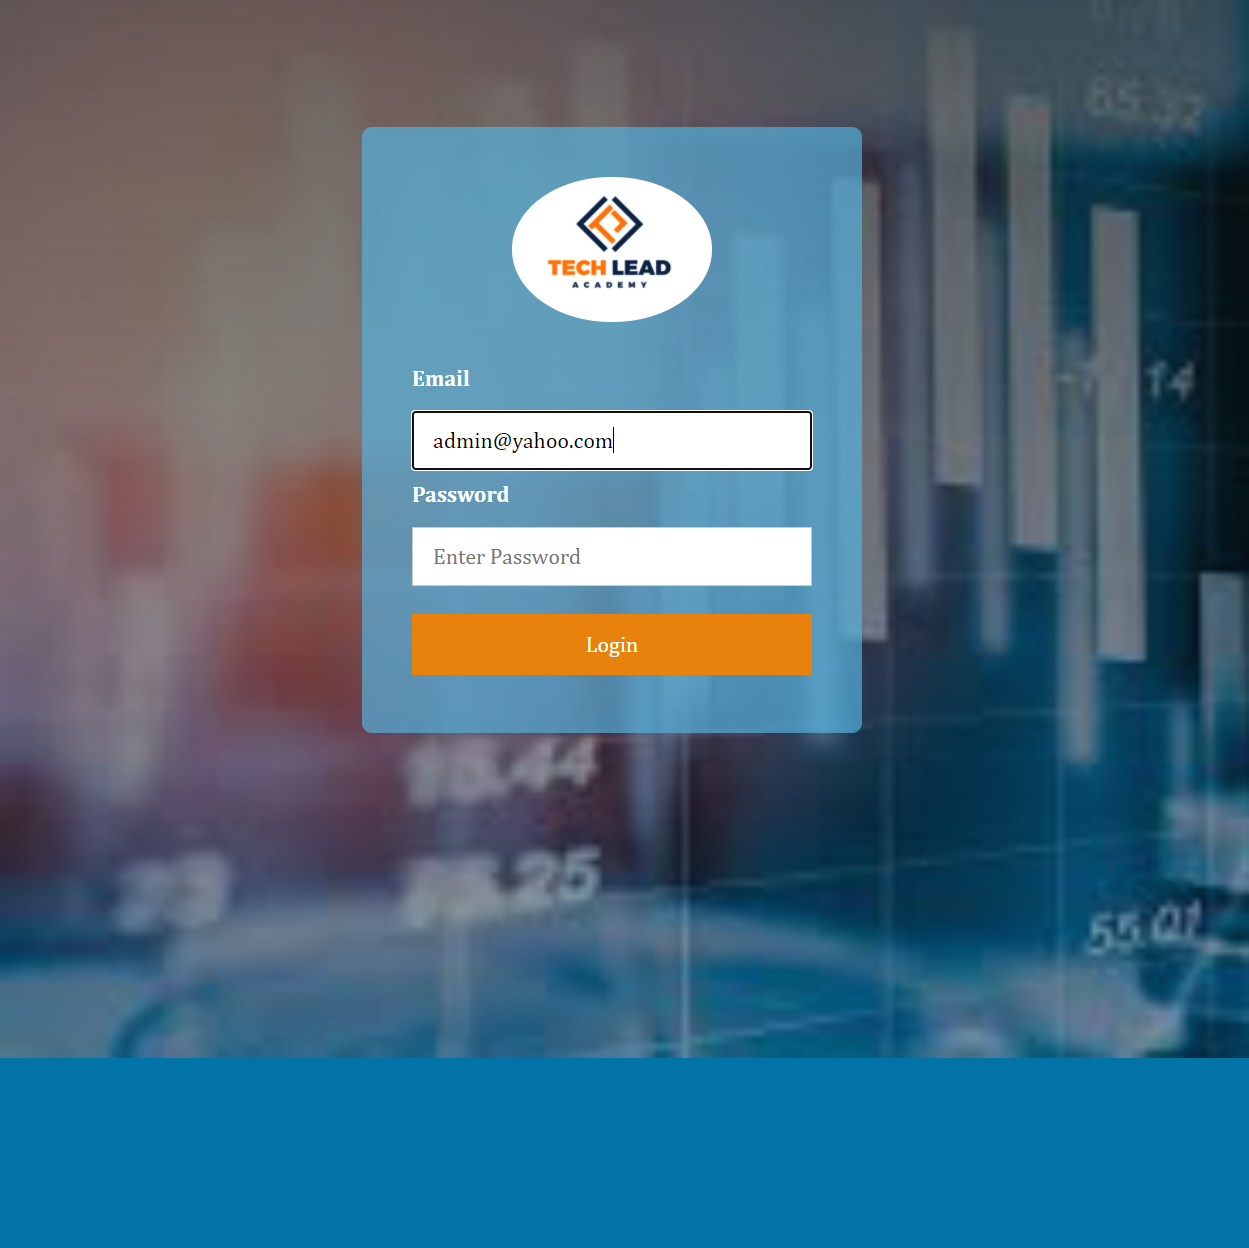
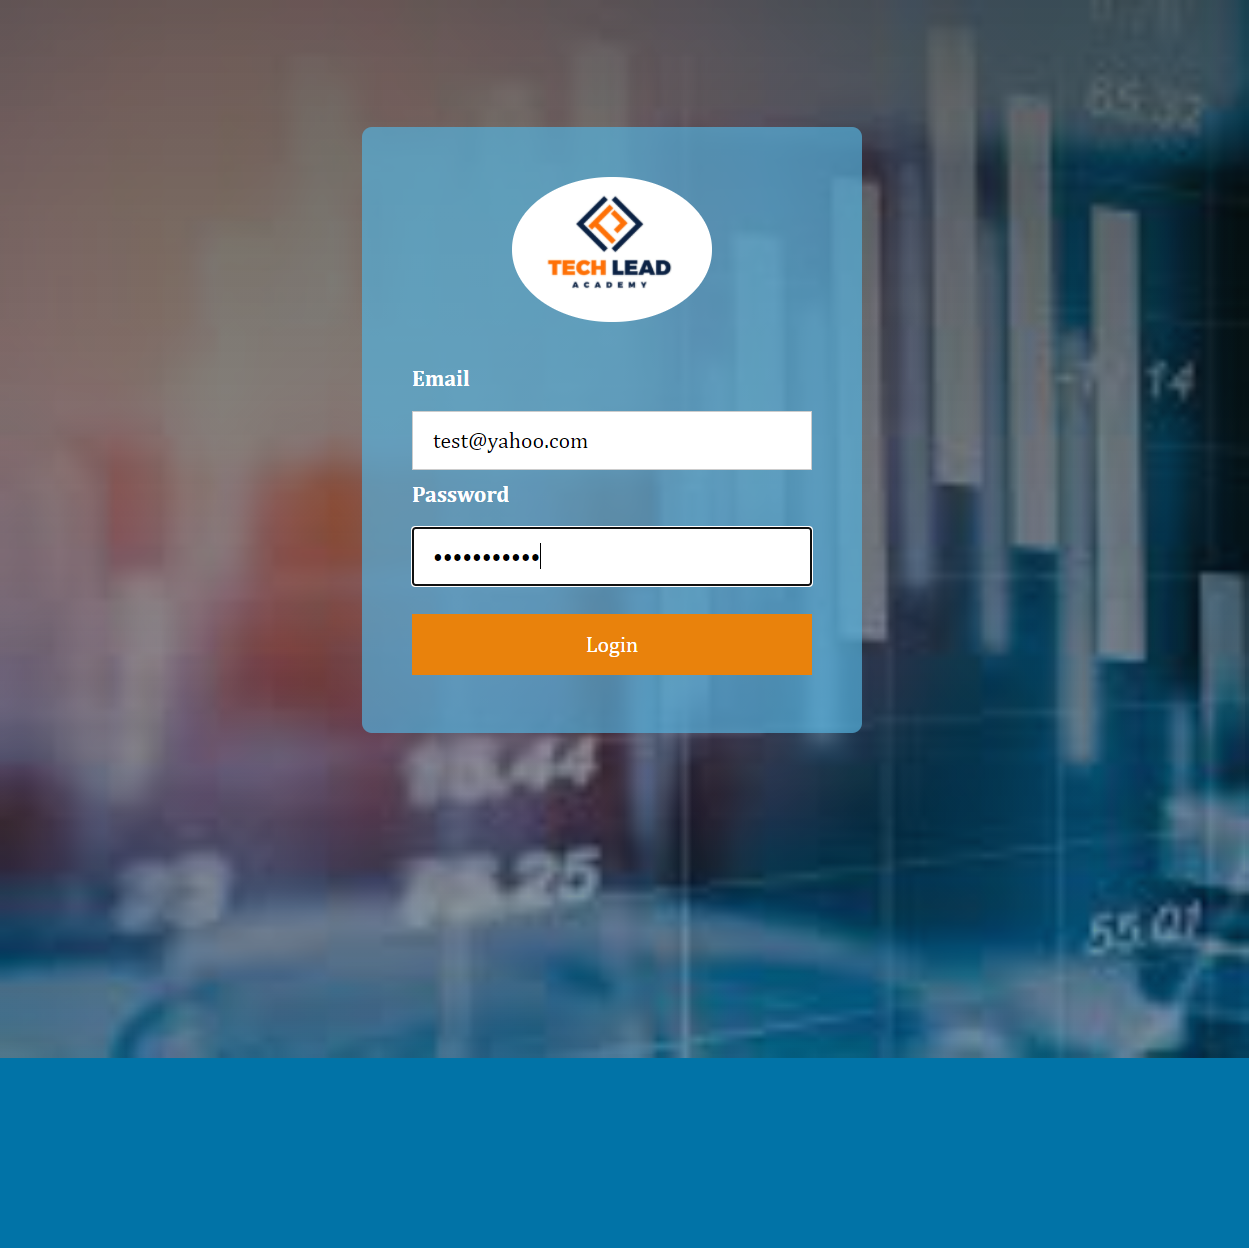
@test tag added

Changed region(s): [[0.3435, 0.3438, 0.4996, 0.375], [0.3435, 0.4375, 0.4684, 0.4688]]

diff --git a/target/DashboardRunner/report.js b/target/DashboardRunner/report.js
@@ -1,13 +1,97 @@
-$(document).ready(function() {var formatter = new CucumberHTML.DOMFormatter($('.cucumber-report'));formatter.uri("file:src/main/resources/features/manageAccess.feature");
+$(document).ready(function() {var formatter = new CucumberHTML.DOMFormatter($('.cucumber-report'));formatter.uri("file:src/main/resources/features/dashboard.feature");
 formatter.feature({
-  "name": "Manage Access",
+  "name": "Dashboards",
   "description": "",
   "keyword": "Feature"
 });
-formatter.scenario({
-  "name": "Verify admin can add new users",
+formatter.scenarioOutline({
+  "name": "Validate user can be able add and delete in \"\u003csections\u003e\" section",
   "description": "",
-  "keyword": "Scenario"
+  "keyword": "Scenario Outline",
+  "tags": [
+    {
+      "name": "@test"
+    }
+  ]
+});
+formatter.step({
+  "name": "I navigate to Interview Prep",
+  "keyword": "Given "
+});
+formatter.step({
+  "name": "I enter \"test@yahoo.com\" in the \"Enter Username\" input box",
+  "keyword": "Then "
+});
+formatter.step({
+  "name": "I enter \"testUserPassword\" in the \"Enter Password\" input box",
+  "keyword": "Then "
+});
+formatter.step({
+  "name": "I click \"Login\" button",
+  "keyword": "And "
+});
+formatter.step({
+  "name": "I should see \"\u003csections\u003e\" section",
+  "keyword": "Then "
+});
+formatter.step({
+  "name": "I click \"\u003cbuttons\u003e\" button",
+  "keyword": "Then "
+});
+formatter.step({
+  "name": "I enter \"message text\" in the \"Your Input...\" input box",
+  "keyword": "Then "
+});
+formatter.step({
+  "name": "I click \"Enter\" button",
+  "keyword": "Then "
+});
+formatter.step({
+  "name": "I validate \"message text\" is displayed in \"\u003csections\u003e\" window",
+  "keyword": "And "
+});
+formatter.step({
+  "name": "I click \"Delete\" button of \"message text\"",
+  "keyword": "Then "
+});
+formatter.step({
+  "name": "I validate \"message text\" is  Not displayed in \"\u003csections\u003e\" window",
+  "keyword": "And "
+});
+formatter.examples({
+  "name": "",
+  "description": "",
+  "keyword": "Examples",
+  "rows": [
+    {
+      "cells": [
+        "sections",
+        "buttons"
+      ]
+    },
+    {
+      "cells": [
+        "Do\u0027s",
+        "Add do"
+      ]
+    },
+    {
+      "cells": [
+        "Dont\u0027s",
+        "Add don\u0027t"
+      ]
+    }
+  ]
+});
+formatter.scenario({
+  "name": "Validate user can be able add and delete in \"Do\u0027s\" section",
+  "description": "",
+  "keyword": "Scenario Outline",
+  "tags": [
+    {
+      "name": "@test"
+    }
+  ]
 });
 formatter.before({
   "status": "passed"
@@ -19,14 +103,62 @@ formatter.step({
 formatter.match({
   "location": "LoginSteps.iNavigateToInterviewPrep()"
 });
-formatter.write("2021-02-28 00:56:45 PASS: Successfully navigated to the url");
+formatter.write("2021-02-28 01:26:29 PASS: Successfully navigated to the url");
 formatter.result({
   "status": "passed"
 });
 formatter.step({
-  "name": "I should see the \"Login\" page",
+  "name": "I enter \"test@yahoo.com\" in the \"Enter Username\" input box",
   "keyword": "Then "
 });
 formatter.match({
-  "location": "LoginSteps.iShouldSeeThePage(String)"
+  "location": "LoginSteps.iEnterInTheInputBox(String,String)"
+});
+formatter.write("2021-02-28 01:26:29 PASS: test@yahoo.com was entered in Enter Username input box successfully");
+formatter.embedding("image/png", "embedded0.png", null);
+formatter.result({
+  "status": "passed"
+});
+formatter.step({
+  "name": "I enter \"testUserPassword\" in the \"Enter Password\" input box",
+  "keyword": "Then "
+});
+formatter.match({
+  "location": "LoginSteps.iEnterInTheInputBox(String,String)"
+});
+formatter.write("2021-02-28 01:26:30 PASS: testuser123 was entered in Enter Password input box successfully");
+formatter.embedding("image/png", "embedded1.png", null);
+formatter.result({
+  "status": "passed"
+});
+formatter.step({
+  "name": "I click \"Login\" button",
+  "keyword": "And "
+});
+formatter.match({
+  "location": "LoginSteps.iClickButton(String)"
+});
+formatter.write("2021-02-28 01:26:31 PASS: Login button was successfully clicked ");
+formatter.embedding("image/png", "embedded2.png", null);
+formatter.result({
+  "status": "passed"
+});
+formatter.step({
+  "name": "I should see \"Do\u0027s\" section",
+  "keyword": "Then "
+});
+formatter.match({
+  "location": "DashboardSteps.iShouldSeeSection(String)"
+});
+formatter.write("2021-02-28 01:26:32 PASS: The section is displayed: Do\u0027s");
+formatter.embedding("image/png", "embedded3.png", null);
+formatter.result({
+  "status": "passed"
+});
+formatter.step({
+  "name": "I click \"Add do\" button",
+  "keyword": "Then "
+});
+formatter.match({
+  "location": "LoginSteps.iClickButton(String)"
 });

diff --git a/src/test/java/DashboardRunner.java b/src/test/java/DashboardRunner.java
@@ -6,10 +6,10 @@ import io.cucumber.junit.Cucumber;
 @CucumberOptions(
         plugin = {"pretty" , "html:target/DashboardRunner",
                 "rerun:target/Rerun_Failed/DashboardRunner.txt"},
-        features = "src/main/resources/features/manageAccess.feature",
+        features = "src/main/resources/features/dashboard.feature",
         glue = {"steps"}
         , stepNotifications = true
-       // tags="@regression"
+        ,tags="@test"
         //   tags="@regression and @shakeout"
 )
 
